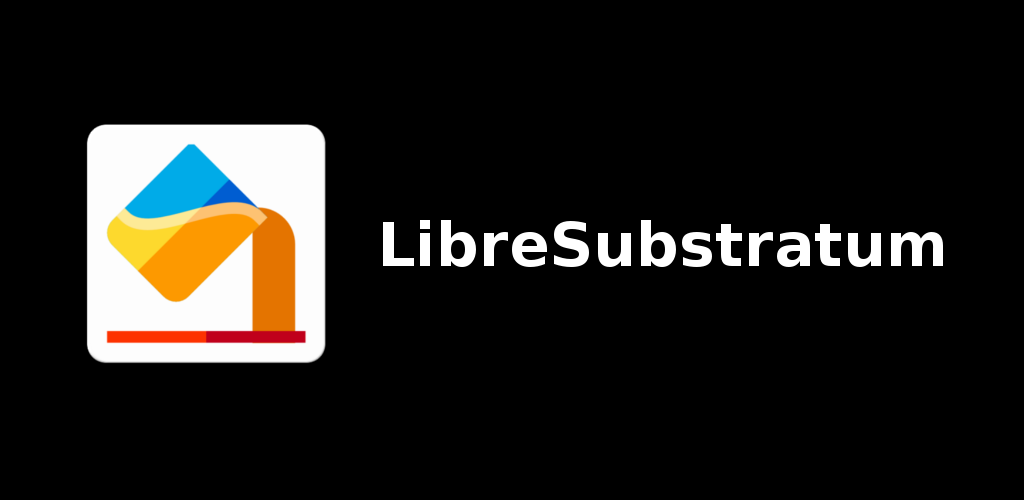
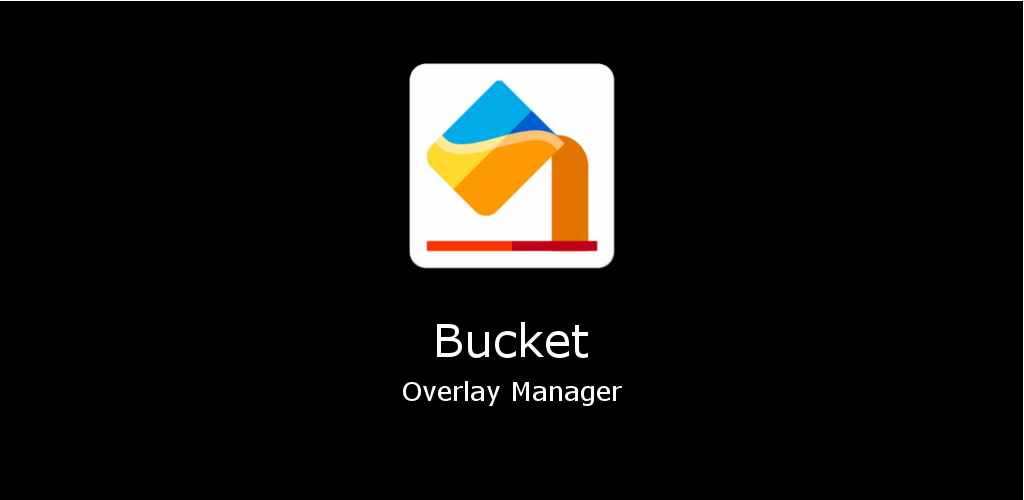
Rebrand

diff --git a/app/src/main/kotlin/com/jereksel/libresubstratum/domain/AndroidClipboardManager.kt b/app/src/main/kotlin/com/jereksel/libresubstratum/domain/AndroidClipboardManager.kt
@@ -8,7 +8,7 @@ typealias RealClipboardManager = android.content.ClipboardManager
 class AndroidClipboardManager(private val context: Context): ClipboardManager {
     override fun addToClipboard(message: String) {
         val clipboard = context.getSystemService(Context.CLIPBOARD_SERVICE) as RealClipboardManager
-        val clip = ClipData.newPlainText("LibreSubstratum", message)
+        val clip = ClipData.newPlainText("BucketThemeManager", message)
         clipboard.primaryClip = clip
     }
 }

diff --git a/app/src/main/kotlin/com/jereksel/libresubstratum/domain/KeyFinderNative.java b/app/src/main/kotlin/com/jereksel/libresubstratum/domain/KeyFinderNative.java
@@ -5,7 +5,7 @@ import android.support.annotation.Nullable;
 public class KeyFinderNative {
 
     static {
-        System.loadLibrary("nativelibresub");
+        System.loadLibrary("bucketnativelib");
     }
 
     //[key, iv]
